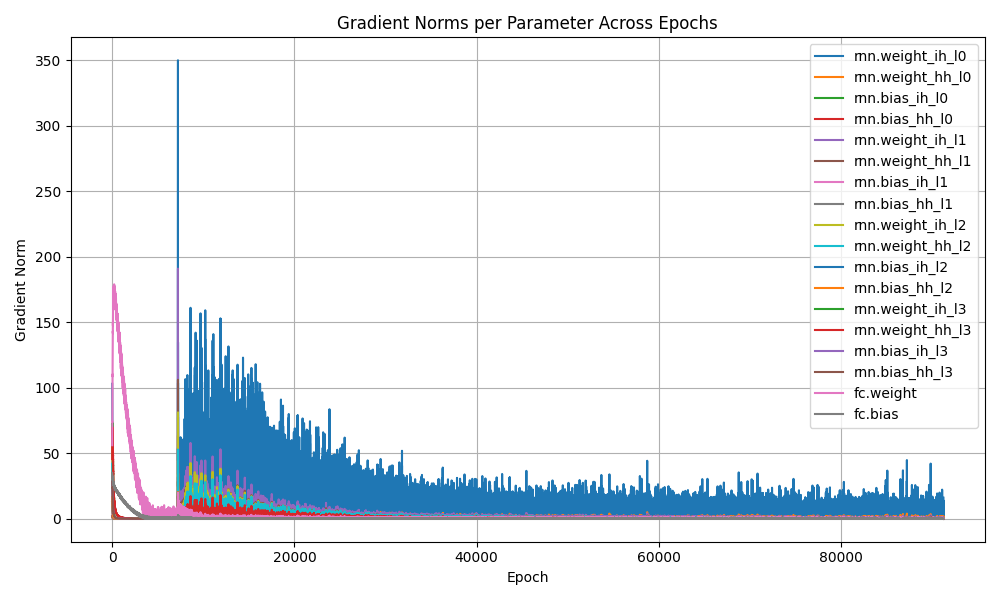
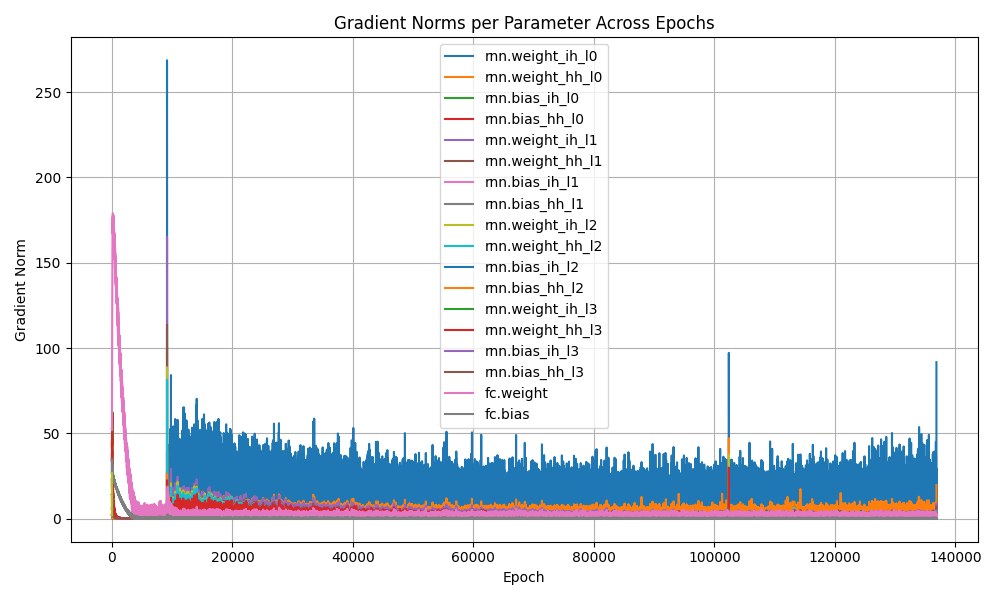
RNN + tempo working test

diff --git a/src/fvg_adriatic_data/CA_RNN/tests/test_RNN_CA.py b/src/fvg_adriatic_data/CA_RNN/tests/test_RNN_CA.py
@@ -43,12 +43,12 @@ class VanillaRNN(nn.Module):
         out = self.fc(out[:, -1, :])  # Use the last hidden state
         return out
 
+
 # paths
-data_file = "./sst_test_set.pt"
-model_file = "../data/sst_train_set.pt"
-output_file = "./testset_results.pt"
+data_file = "tests/sst_test_set.pt"
+model_file = "data/sst_train_set.pt"
+output_file = "tests/testset_results.pt"
 data = torch.load(data_file, map_location="cpu")
-print(data.keys())
 model_loader = torch.load(model_file, map_location="cpu")
 # recuperate test data
 
@@ -102,6 +102,8 @@ model.eval()
 criterion = nn.MSELoss(reduction="sum")  # sum on GPU; divide later
 
 neigh_indices = [i for i in range(9) if i != 4]
+
+
 total_loss = torch.tensor(0.0, device=device)
 total_mare = torch.tensor(0.0, device=device)
 total_baseline_mse = torch.tensor(0.0, device=device)
@@ -112,32 +114,13 @@ all_preds = []
 all_baselines = []
 
 with torch.no_grad():
-    for batch_seq, batch_tar in test_loader:
-        batch_seq = batch_seq.to(device, non_blocking=True)
-        batch_tar = batch_tar.to(device, non_blocking=True)
-        # model (on GPU maintenant)
-        outputs = model(batch_seq.unsqueeze(-1))
-        #print("target", batch_tar.shape, "output", outputs.shape)
-        #exit()
-        # MSE (sum on GPU)
-        total_loss += criterion(outputs, batch_tar)
-
-        # MARE with mask (GPU)
-        target = batch_tar.abs()
-        mask = target > 1e-6
-        total_mare += (
-            (outputs - batch_tar).abs()[mask] / target[mask]
-        ).sum()
-        num_mare += mask.sum()
-        all_preds.append(outputs.cpu())
-
     for batch_seq, batch_tar in baseline_loader:
         batch_seq = batch_seq.to(device, non_blocking=True)
         batch_tar = batch_tar.to(device, non_blocking=True)
-        local_only = batch_seq[:, neigh_indices]
+        local_only = batch_seq[:, -1, neigh_indices]
         local_navg = local_only.mean(dim=1)
         # MSE (sum on GPU)
-        total_baseline_mse += criterion(local_navg, batch_tar.squeeze(-1))
+        total_baseline_mse += criterion(local_navg, batch_tar.squeeze_())
         # MARE with mask (GPU)
         target = batch_tar.squeeze(-1).abs()
         mask = target > 1e-6
@@ -145,6 +128,22 @@ with torch.no_grad():
             (local_navg - batch_tar.squeeze(-1)).abs()[mask] / target[mask]
         ).sum()
         all_baselines.append(local_navg.cpu())
+    for batch_seq, batch_tar in test_loader:
+        batch_seq = batch_seq.to(device, non_blocking=True)
+        batch_tar = batch_tar.to(device, non_blocking=True)
+        # model (on GPU maintenant)
+        outputs = model(batch_seq.unsqueeze_(-1))  # add feature dim
+
+        # MSE (sum on GPU)
+        total_loss += criterion(outputs, batch_tar)
+
+        # MARE with mask (GPU)
+        target = batch_tar.abs()
+        target = batch_tar.squeeze_().abs()
+        mask = target > 1e-6
+        total_mare += ((outputs - batch_tar.squeeze()).abs()[mask] / target[mask]).sum()
+        num_mare += mask.sum()
+        all_preds.append(outputs.cpu())
 
 
 # move to CPU once

diff --git a/src/fvg_adriatic_data/CA_RNN/models/RnnCA.py b/src/fvg_adriatic_data/CA_RNN/models/RnnCA.py
@@ -20,11 +20,13 @@ import matplotlib.pyplot as plt
 
 
 # "./data/cop_ml_ready.pt"
-load_file = "../data/sst_train_set.pt"
+load_file = "data/sst_train_set.pt"
 data = torch.load(load_file, map_location="cpu")
 
 X = data["X"][:, :, 4]  # select only the central cell.
 X.unsqueeze_(2)  # add a channel dimension
+print(X.shape)
+exit()
 Y = data["Y"]
 
 train_dataset = TensorDataset(X, Y)
@@ -32,11 +34,11 @@ train_loader = DataLoader(train_dataset, batch_size=256, shuffle=True, num_worke
 
 nb_features = 1
 learning_rate = 1e-4
-num_epochs = 15
+num_epochs = 1
 batch_size = 32
 output_dim = 1
 input_dim = 1
-seq_length = 4
+seq_length = 8
 hidden_dim = 7 * 8
 
 model = vrnn.VanillaRNN(input_dim, hidden_dim, output_dim)
@@ -50,6 +52,7 @@ train_loss = []  # to store loss over epochs
 grad_history = {}  # store gradient over epoch to plot smt, the log takes time...
 
 for epoch in range(num_epochs):
+    print(f"Epoch {epoch+1}/{num_epochs} \n computing ...\n...\n...")
     epoch_start = time.time()
     epoch_loss = 0.0
     for x_batch, y_batch in train_loader:
@@ -88,12 +91,21 @@ for epoch in range(num_epochs):
     epoch_time = time.time() - epoch_start
 
     print(
-        f"Epoch {epoch+1}/{num_epochs} | "
         f"Loss: {avg_loss:.4f} | "
         f"GPU Mem: {mem_alloc:.1f}MB/{mem_reserved:.1f}MB | "
-        f"Time: {epoch_time:.2f}s",
+        f"Time: {epoch_time:.2f}s | ",
+        f" {epoch_time/60:.2f} min",
         flush=True,
     )
+
+# saving model to pt file
+data["model_state_dict"] = model.state_dict()
+data["model_type"] = model.__class__.__name__  # fixed
+# Save everything back to the same .pt file
+torch.save(data, load_file)
+print(f"Model saved to {load_file}")
+
+# showing gradient descent
 plt.figure(figsize=(10, 6))
 for name, norms in grad_history.items():
     plt.plot(norms, label=name)
@@ -103,7 +115,7 @@ plt.xlabel("Epoch")
 plt.ylabel("MSE Loss")
 plt.title("Training Loss Over Epochs")
 plt.grid(True)
-plt.savefig("train_loss_curve.png", dpi=150, bbox_inches="tight")
+plt.savefig("./train_loss_curve.png", dpi=150, bbox_inches="tight")
 
 plt.xlabel("Epoch")
 plt.ylabel("Gradient Norm")
@@ -113,10 +125,3 @@ plt.grid(True)
 plt.tight_layout()
 plt.savefig("gradient_norms.png")
 plt.show()
-
-
-data["model_state_dict"] = model.state_dict()
-data["model_type"] = model.__class__.__name__  # fixed
-# Save everything back to the same .pt file
-torch.save(data, load_file)
-print(f"Model saved to {load_file}")
